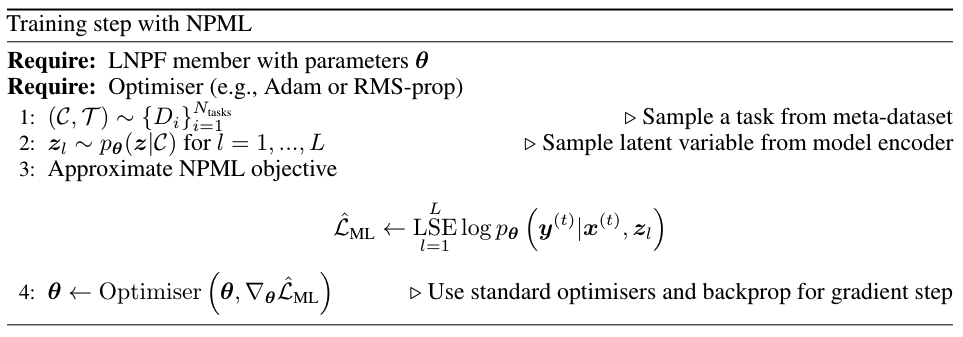
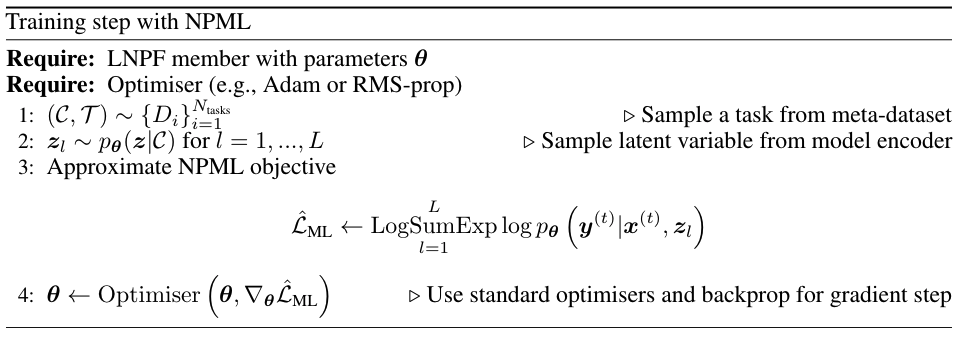
Fixing pseudo-code for NPML

diff --git a/jupyter/text/LNPF.md b/jupyter/text/LNPF.md
@@ -25,7 +25,7 @@ Probabilistic graphical model for LNPs.
 ---
 class: caution, dropdown
 ---
-In this tutorial, we refer use the adjective "Latent" to distinguish the Latent NPF from the Conditional NPF. 
+In this tutorial, we refer use the adjective "Latent" to distinguish the Latent NPF from the Conditional NPF.
 We then use term "neural process" to refer to both conditional neural processes and latent neural processes.
 In the literature, however, the term "neural process" is used to refer to "latent neural processes".
 As a result the models that we will discuss and call LNP, AttnLNP, and ConvLNP are found in the literature under the abbreviations NP, AttnNP, ConvNP.
@@ -55,7 +55,7 @@ p_{\theta}(\mathbf{y}_\mathcal{T} | \mathbf{x}_\mathcal{T}; \mathcal{C})
 ---
 class: hint, dropdown
 ---
-We show that like the CNPF, members of the LNPF also specify consistent stochastic processes conditioned on a fixed context set $\mathcal{C}$. 
+We show that like the CNPF, members of the LNPF also specify consistent stochastic processes conditioned on a fixed context set $\mathcal{C}$.
 
 (Consistency under permutation) Let $\mathbf{x}_{\mathcal{T}} = \{ x^{(t)} \}_{t=1}^T$ be the target inputs and $\pi$ be any permutation of $\{1, ..., T\}$. Then the predictive density is:
 
@@ -67,7 +67,7 @@ $$
 \end{align}
 $$
 
-since multiplication is commutative. 
+since multiplication is commutative.
 
 (Consistency under marginalisation)  Consider two target inputs, $x^{(1)}, x^{(2)}$. Then by marginalising out the second target output, we get:
 
@@ -125,7 +125,7 @@ name: summary_training
   - Variational Inference
   - Yes
   - Small
-  - Usually worst
+  - Usually worse
 ```
 
 
@@ -155,13 +155,13 @@ While this quantity is no longer tractable (as it was with members of the CNPF),
 \end{align}
 ```
 
-where each $\mathbf{z}_l \sim p_{\theta} \left( \mathbf{z} | \mathcal{C} \right)$. 
+where each $\mathbf{z}_l \sim p_{\theta} \left( \mathbf{z} | \mathcal{C} \right)$.
 
 ````{admonition} Implementation$\qquad$LogSumExp
 ---
 class: dropdown
 ---
-In practice, manipulating directly probabilities is prone to numerical instabilities, e.g., multiplying probabilities as in Eq.{eq}`npml` will often underflow. 
+In practice, manipulating directly probabilities is prone to numerical instabilities, e.g., multiplying probabilities as in Eq.{eq}`npml` will often underflow.
 As a result one should manipulate probabilities in the log domain:
 
 ```{math}
@@ -173,7 +173,7 @@ As a result one should manipulate probabilities in the log domain:
 \end{align}
 ```
 
-where numerical stable implementations of [LogSumExp](https://en.wikipedia.org/wiki/LogSumExp#log-sum-exp_trick_for_log-domain_calculations) can be found in most frameworks. 
+where numerical stable implementations of [LogSumExp](https://en.wikipedia.org/wiki/LogSumExp#log-sum-exp_trick_for_log-domain_calculations) can be found in most frameworks.
 ````
 
 Eq.{eq}`npml` provides a simple-to-compute objective function for training LNPF-members, which we can then use with standard optimisers to learn the model parameters $\theta$.
@@ -330,7 +330,7 @@ To better understand the NPVI objective, it is important to note --- see the box
 
 ```{math}
 :label: npvi2
-\mathcal{L}_{VI} = \log p_{\theta}(\mathbf{y}_\mathcal{T} | \mathbf{x}_\mathcal{T}, \mathcal{C}) - \mathrm{KL} \left( p_{\theta} \left( \mathbf{z} | \mathcal{D} \right) \| p \left( \mathbf{z} | \mathcal{C}, \mathcal{T} \right) \right) 
+\mathcal{L}_{VI} = \log p_{\theta}(\mathbf{y}_\mathcal{T} | \mathbf{x}_\mathcal{T}, \mathcal{C}) - \mathrm{KL} \left( p_{\theta} \left( \mathbf{z} | \mathcal{D} \right) \| p \left( \mathbf{z} | \mathcal{C}, \mathcal{T} \right) \right)
 ```
 
 The NPVI can thus be seen as maximizing the desired log marginal likelihood as well as forcing the approximate and true posterior to be similar.
@@ -466,7 +466,7 @@ Moreover, we can observe that beyond the $[-1, 1]$, the model seems to "give up"
 ````{admonition} Note$\qquad$NPVI vs NPML
 ---
 class: dropdown, note
---- 
+---
 In the main text we trained LNP with NPVI as in the original paper, we compare the results with NPML on different kernels below.
 
 ```{figure} ../gifs/singlegp_LNP_LatLBTrue_SigLBTrue.gif
@@ -524,7 +524,7 @@ width: 25em
 name: computational_graph_AttnLNPs_text
 alt: Computational graph AttnLNP
 ---
-Computational graph for AttnLNPS. 
+Computational graph for AttnLNPS.
 ```
 
 Throughout the section we train AttnLNPs with NPVI as in the original paper.
@@ -604,7 +604,7 @@ width: 25em
 name: computational_graph_ConvLNPs_CpnvCNPs_text
 alt: Computational graph ConvLNP using two ConvCNPs
 ---
-Computational graph for ConvLNPs. 
+Computational graph for ConvLNPs.
 ```
 
 ````{admonition} Implementation$\qquad$ConvLNP without ConvCNP
@@ -612,7 +612,7 @@ Computational graph for ConvLNPs.
 class: note, dropdown
 ---
 In our implementation we do not use two ConvCNPs to implement the ConvLNP.
-Instead, we use the same computational graph than for ConvCNPs but split the CNN into two. 
+Instead, we use the same computational graph than for ConvCNPs but split the CNN into two.
 The output of the first CNN is a mean and a (log) standard deviation at every position of the (discrete) signal, which are then used to parametrize independent Gaussian disitrubtions each positions.
 The second CNN gets as input a sample from the first one, i.e., a discrete signal.
 
@@ -625,7 +625,7 @@ width: 25em
 name: computational_graph_ConvLNPs_text
 alt: Computational graph ConvLNP
 ---
-Computational graph for ConvLNPs without using ConvCNPs. 
+Computational graph for ConvLNPs without using ConvCNPs.
 ```
 
 ````
